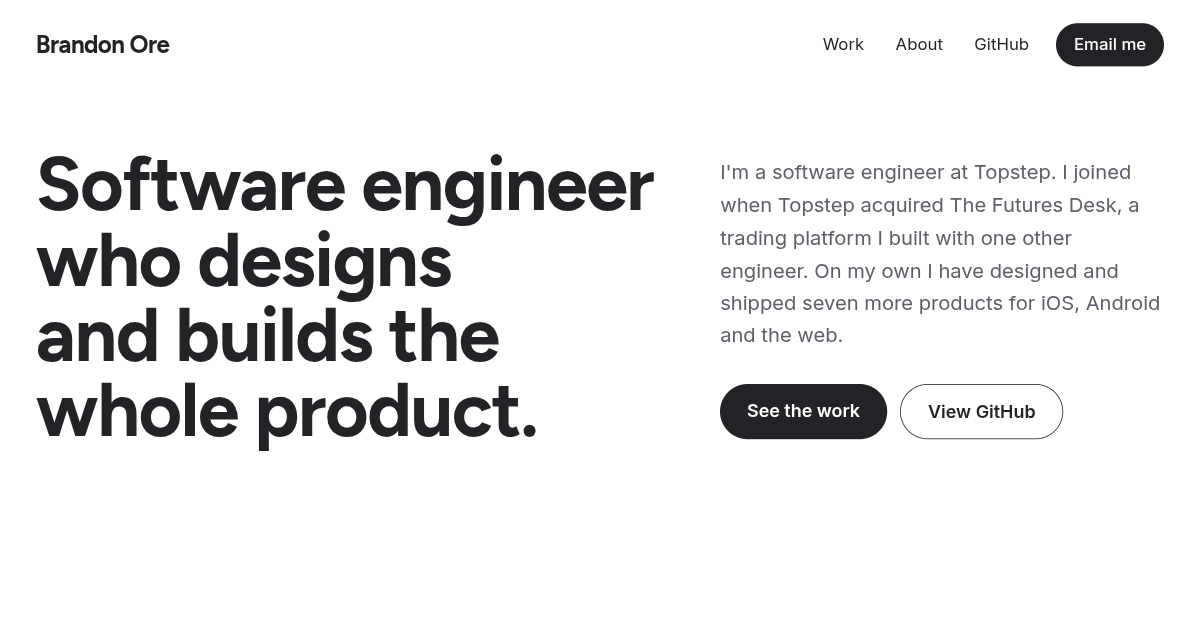
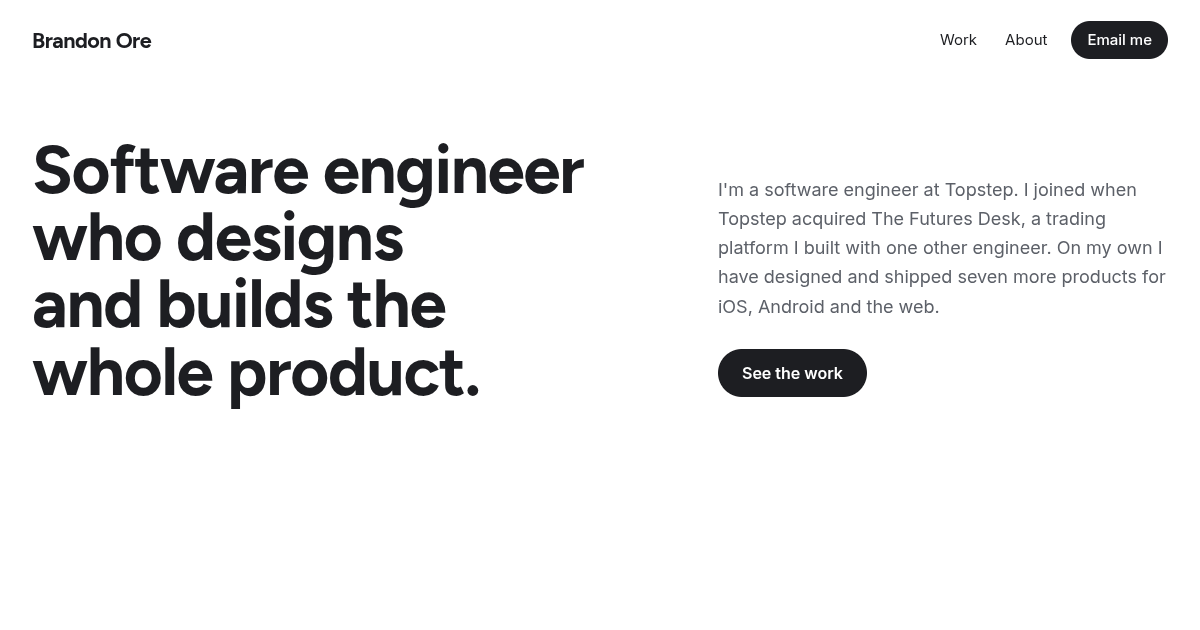
feat(site): show experience as a path and widen the page
The three jobs under the headline are now a path through time that ends at
the current role, in place of the grey table. The long panel about app
store rules is folded into four rows of the tools table and one sentence.

The products' repositories are private, so the page no longer says the code
is on GitHub; the contact band offers a walkthrough instead and GitHub stays
as a footer link. The page is 1360px wide, up from 1200px, the MySeedStory
phones sit lower, and the footer links are tall enough to tap.

diff --git a/src/components/HeroSection.vue b/src/components/HeroSection.vue
@@ -1,57 +1,79 @@
 <script setup>
-import { githubUrl } from '../links'
-
-// Newest first. This list is the résumé at a glance, so it sits right under the headline.
-const experience = [
+// Oldest first, so the row reads left to right as a path that ends at now.
+// Each year is when that stretch began. The products came well after 2019, and the note says so.
+const path = [
   {
-    when: 'Since 2026',
-    name: 'Topstep',
-    role: 'Software engineer',
-    note: 'Joined through the acquisition of The Futures Desk in April 2026.',
+    year: '2019',
+    name: 'Independent',
+    role: 'Client apps, then my own products',
+    note: 'I started with client work. My own products came later: seven so far, published under the name Pomkatsu.',
+    mark: 'products',
+    href: '#products',
   },
   {
-    when: '2024 to 2026',
+    year: '2024',
     name: 'The Futures Desk',
     role: 'Founding engineer',
     note: 'One of two engineers. Launched in November 2024 and acquired by Topstep.',
+    mark: 'logo',
+    href: '#tfd',
   },
   {
-    when: 'Since 2019',
-    name: 'Independent',
-    role: 'Client apps, then my own products',
-    note: 'Seven products of my own, published under the name Pomkatsu.',
+    year: '2026',
+    name: 'Topstep',
+    role: 'Software engineer',
+    note: 'Joined through the acquisition of The Futures Desk in April 2026. This is where I work now.',
+    now: true,
   },
+]
+
+// The seven products, in the order they appear further down
+const products = [
+  { name: 'MySeedStory', icon: '/work/myseedstory/icon.webp' },
+  { name: 'CertMatrix', icon: '/work/certmatrix/icon.png' },
+  { name: 'EasyTranslate AI', icon: '/work/easytranslate/icon.webp' },
+  { name: 'BCP Flow', icon: '/work/bcpflow/icon.svg' },
+  { name: 'BentoBook', icon: '/work/bentobook/icon.webp', padded: true },
+  { name: 'Destina', icon: '/work/destina/icon.webp' },
+  { name: 'FoodTally', icon: '/work/foodtally/icon.webp' },
 ]
 </script>
 
 <template>
-  <!-- The claim on the left, the plain account of it on the right, then the three jobs as proof -->
-  <section class="mx-auto max-w-[1200px] px-5 sm:px-8">
+  <!-- The claim on the left, the plain account of it on the right, then the three jobs as a path through time -->
+  <section class="mx-auto max-w-[1360px] px-5 sm:px-8">
     <div class="grid lg:grid-cols-12 gap-x-10 gap-y-8 items-end pt-8 sm:pt-14 pb-12 sm:pb-16">
       <h1 class="lg:col-span-7 text-balance font-brand font-bold tracking-[-0.02em] leading-[1] text-[clamp(2.25rem,5.6vw,4.6rem)]">Software engineer who designs and builds the whole product.</h1>
       <div class="lg:col-span-5 lg:pb-2">
         <p class="max-w-[33rem] text-lg leading-relaxed text-primary-light">I'm a software engineer at Topstep. I joined when Topstep acquired The Futures Desk, a trading platform I built with one other engineer. On my own I have designed and shipped seven more products for iOS, Android and the web.</p>
         <div class="mt-7 flex flex-wrap gap-3">
           <a href="#work" class="px-6 py-3 rounded-full bg-primary text-secondary font-semibold hover:bg-primary-dark">See the work</a>
-          <a :href="githubUrl" target="_blank" rel="noopener noreferrer" class="px-6 py-3 rounded-full border border-primary font-semibold hover:bg-secondary-light">View GitHub</a>
         </div>
       </div>
     </div>
 
     <h2 class="sr-only">Experience</h2>
-    <ol class="rounded-[28px] bg-secondary-light px-6 sm:px-10 lg:px-14 py-3 sm:py-5">
-      <li
-        v-for="(job, i) in experience"
-        :key="job.name"
-        class="grid md:grid-cols-[8rem_minmax(0,1fr)_minmax(0,1.35fr)] gap-x-8 gap-y-1 md:items-baseline py-6"
-        :class="i > 0 ? 'border-t border-secondary-dark' : ''"
-      >
-        <span class="text-[15px] text-primary-light">{{ job.when }}</span>
-        <span class="font-brand text-[1.7rem] sm:text-[2rem] font-bold tracking-[-0.02em] leading-none">{{ job.name }}</span>
-        <span class="mt-1 md:mt-0">
-          <span class="block font-medium">{{ job.role }}</span>
-          <span class="block text-[15px] leading-relaxed text-primary-light">{{ job.note }}</span>
-        </span>
+    <ol class="grid md:grid-cols-3 gap-y-10 pt-2">
+      <li v-for="stop in path" :key="stop.name" class="relative pt-10" :class="stop.now ? '' : 'md:pr-10'">
+        <!-- The line to the next stop. After the last one it fades out, because that one is still running. -->
+        <span class="absolute left-0 right-0 top-[7px] h-0.5" :class="stop.now ? 'bg-gradient-to-r from-secondary-dark to-transparent' : 'bg-secondary-dark'" aria-hidden="true"></span>
+        <span class="absolute left-0 top-0 w-4 h-4 rounded-full" :class="stop.now ? 'bg-live ring-4 ring-live/25' : 'bg-secondary border-[3px] border-primary'" aria-hidden="true"></span>
+
+        <component :is="stop.href ? 'a' : 'div'" :href="stop.href" class="group block">
+          <p class="font-brand text-[2.6rem] font-bold tracking-[-0.03em] leading-none">{{ stop.year }}</p>
+          <h3 class="mt-5 font-brand text-2xl font-bold tracking-tight leading-none" :class="stop.href ? 'group-hover:underline underline-offset-4 decoration-2' : ''">{{ stop.name }}</h3>
+          <p class="mt-2 font-medium leading-snug">{{ stop.role }}</p>
+          <p class="mt-1 text-[15px] leading-relaxed text-primary-light">{{ stop.note }}</p>
+          <span v-if="stop.mark === 'products'" class="mt-5 grid grid-cols-7 gap-1.5 max-w-[14.5rem]">
+            <span
+              v-for="product in products"
+              :key="product.name"
+              class="app-icon aspect-square"
+              :class="product.padded ? 'bg-secondary-light p-0.5' : ''"
+            ><img :src="product.icon" alt="" :class="product.padded ? 'object-contain' : 'object-cover'"></span>
+          </span>
+          <span v-else-if="stop.mark === 'logo'" class="mt-5 flex"><span class="app-icon w-7 h-7 bg-black p-1"><img src="/work/futures-desk/logo.webp" alt="" width="132" height="132" class="object-contain"></span></span>
+        </component>
       </li>
     </ol>
   </section>

diff --git a/src/components/AboutSection.vue b/src/components/AboutSection.vue
@@ -1,23 +1,26 @@
 <script setup>
-import UnseenWork from './UnseenWork.vue'
-
+// The tools first, then the work around a product that no screenshot shows
 const stack = [
   { area: 'Web', tools: 'React, Next.js, Vue, Astro, Tailwind' },
   { area: 'Mobile', tools: 'React Native with Expo, Flutter, Capacitor' },
   { area: 'Backend', tools: 'Node, tRPC, Fastify, Postgres, Supabase, Firebase' },
+  { area: 'Payments', tools: 'Stripe, RevenueCat, Lemon Squeezy, webhooks' },
+  { area: 'App stores', tools: 'App Store and Google Play: review, in-app purchases, privacy labels, account deletion' },
+  { area: 'Ads', tools: 'AppsFlyer attribution, Meta, Apple and Reddit ads' },
+  { area: 'Testing', tools: 'Playwright, Vitest' },
 ]
 </script>
 
 <template>
-  <section id="about" class="mx-auto max-w-[1200px] px-5 sm:px-8 pt-20 sm:pt-28 scroll-mt-6">
+  <section id="about" class="mx-auto max-w-[1360px] px-5 sm:px-8 pt-20 sm:pt-28 scroll-mt-6">
     <div class="grid lg:grid-cols-12 gap-x-12 gap-y-12">
       <div class="lg:col-span-6">
         <h2 class="font-brand text-3xl sm:text-[2.6rem] font-bold tracking-[-0.025em] leading-none">About</h2>
         <p class="mt-7 text-xl leading-relaxed">I'm Brandon Ore. I have been building production software since 2019: first for clients, then as a founding engineer at The Futures Desk, and now at Topstep.</p>
-        <p class="mt-4 leading-relaxed text-primary-light max-w-[34rem]">I design the screens and build everything behind them: the app, the API, the database and the billing. Most of my work has been solo or on a two-engineer team, so I am used to owning a feature from the first sketch to the release, and to fixing it when it breaks.</p>
+        <p class="mt-4 leading-relaxed text-primary-light max-w-[34rem]">I design the screens and build everything behind them: the app, the API, the database and the billing. Most of my work has been solo or on a two-engineer team, so I am used to owning a feature from the first sketch to the release, and to fixing it when it breaks. That includes the parts nobody sees: payments, app store review, privacy rules and tests.</p>
       </div>
       <div class="lg:col-span-5 lg:col-start-8 lg:pt-[4.4rem]">
-        <h3 class="font-brand text-xl font-semibold tracking-tight">What I build with</h3>
+        <h3 class="font-brand text-xl font-semibold tracking-tight">What I work with</h3>
         <dl class="mt-4 grid grid-cols-[5.5rem_1fr] gap-y-2.5 text-[15px] leading-snug">
           <template v-for="row in stack" :key="row.area">
             <dt class="font-medium">{{ row.area }}</dt>
@@ -26,7 +29,5 @@ const stack = [
         </dl>
       </div>
     </div>
-
-    <UnseenWork />
   </section>
 </template>

diff --git a/src/components/SiteFooter.vue b/src/components/SiteFooter.vue
@@ -5,12 +5,12 @@ const year = new Date().getFullYear()
 </script>
 
 <template>
-  <footer class="mx-auto max-w-[1200px] px-5 sm:px-8 py-12 flex flex-wrap items-center justify-between gap-x-8 gap-y-4 text-sm text-primary-light">
+  <footer class="mx-auto max-w-[1360px] px-5 sm:px-8 py-12 flex flex-wrap items-center justify-between gap-x-8 gap-y-4 text-sm text-primary-light">
     <p>© {{ year }} Brandon Ore</p>
-    <nav class="flex flex-wrap gap-x-6 gap-y-2" aria-label="Elsewhere">
-      <a :href="githubUrl" target="_blank" rel="noopener noreferrer" class="hover:text-primary hover:underline underline-offset-4">GitHub</a>
-      <a :href="emailUrl" class="hover:text-primary hover:underline underline-offset-4">Email</a>
-      <a href="https://pomkatsu.com" target="_blank" rel="noopener noreferrer" class="hover:text-primary hover:underline underline-offset-4">Pomkatsu</a>
+    <nav class="flex flex-wrap gap-x-6 -my-2" aria-label="Elsewhere">
+      <a :href="githubUrl" target="_blank" rel="noopener noreferrer" class="py-2 hover:text-primary hover:underline underline-offset-4">GitHub</a>
+      <a :href="emailUrl" class="py-2 hover:text-primary hover:underline underline-offset-4">Email</a>
+      <a href="https://pomkatsu.com" target="_blank" rel="noopener noreferrer" class="py-2 hover:text-primary hover:underline underline-offset-4">Pomkatsu</a>
     </nav>
   </footer>
 </template>

diff --git a/src/components/ContactBand.vue b/src/components/ContactBand.vue
@@ -1,17 +1,16 @@
 <script setup>
-import { githubUrl, emailUrl } from '../links'
+import { emailUrl } from '../links'
 </script>
 
 <template>
-  <section class="mx-auto max-w-[1200px] px-5 sm:px-8 pt-20 sm:pt-28">
+  <section class="mx-auto max-w-[1360px] px-5 sm:px-8 pt-20 sm:pt-28">
     <div class="rounded-[28px] bg-primary text-secondary px-6 sm:px-10 lg:px-14 py-12 lg:py-16 grid lg:grid-cols-12 gap-8 items-end">
       <div class="lg:col-span-8">
         <h2 class="text-balance font-brand text-4xl sm:text-[3.4rem] font-bold tracking-[-0.03em] leading-[1.02]">Get in touch</h2>
-        <p class="mt-5 max-w-[32rem] text-lg leading-relaxed text-secondary/70">Email is the fastest way to reach me. My code is on GitHub.</p>
+        <p class="mt-5 max-w-[34rem] text-lg leading-relaxed text-secondary/70">Email is the fastest way to reach me. The code for these products is private, and I can walk through any of it on a call.</p>
       </div>
       <div class="lg:col-span-4 flex flex-wrap lg:justify-end gap-3">
         <a :href="emailUrl" class="px-6 py-3 rounded-full bg-secondary text-primary-dark font-semibold hover:bg-secondary-dark">Email me</a>
-        <a :href="githubUrl" target="_blank" rel="noopener noreferrer" class="px-6 py-3 rounded-full border border-secondary/40 font-semibold hover:bg-secondary/10">View GitHub</a>
       </div>
     </div>
   </section>

diff --git a/src/components/MySeedStoryRoom.vue b/src/components/MySeedStoryRoom.vue
@@ -53,9 +53,9 @@ onUnmounted(() => {
           <a href="https://myseedstory.co" target="_blank" rel="noopener noreferrer" class="px-4 py-2 rounded-full border border-myseedstory-forest/40 hover:bg-myseedstory-forest/5">myseedstory.co</a>
         </div>
       </div>
-      <div class="relative z-10 lg:col-span-6 flex justify-center lg:justify-end items-end lg:items-start gap-4 overflow-hidden lg:overflow-visible lg:-mt-44 lg:pb-14" aria-hidden="true">
+      <div class="relative z-10 lg:col-span-6 flex justify-center lg:justify-end items-end lg:items-start gap-4 overflow-hidden lg:overflow-visible lg:-mt-24 lg:pb-14" aria-hidden="true">
         <div class="phone w-[190px] sm:w-[240px] lg:w-[196px] xl:w-[240px] -mb-12 lg:mb-0"><img src="/work/myseedstory/seeds.webp" alt="" width="720" height="1558" loading="lazy" decoding="async"></div>
-        <div class="phone w-[190px] sm:w-[240px] lg:w-[196px] xl:w-[240px] mt-14 -mb-28 lg:mb-0"><img src="/work/myseedstory/calendar.webp" alt="" width="720" height="1558" loading="lazy" decoding="async"></div>
+        <div class="phone w-[190px] sm:w-[240px] lg:w-[196px] xl:w-[240px] mt-14 lg:mt-20 -mb-28 lg:mb-0"><img src="/work/myseedstory/calendar.webp" alt="" width="720" height="1558" loading="lazy" decoding="async"></div>
       </div>
     </div>
   </article>

diff --git a/src/App.vue b/src/App.vue
@@ -21,13 +21,13 @@ import SiteFooter from './components/SiteFooter.vue'
     <HeroSection />
 
     <!-- The product built with a team -->
-    <section id="work" class="mx-auto max-w-[1200px] px-5 sm:px-8 pt-14 sm:pt-20 scroll-mt-6">
+    <section id="work" class="mx-auto max-w-[1360px] px-5 sm:px-8 pt-14 sm:pt-20 scroll-mt-6">
       <h2 class="mb-8 font-brand text-3xl sm:text-[2.6rem] font-bold tracking-[-0.025em] leading-none">Built with a team</h2>
       <FuturesDeskRoom />
     </section>
 
     <!-- My own products: each one is a room in its own colours, deepest codebase first after MySeedStory -->
-    <section id="products" class="mx-auto max-w-[1200px] px-5 sm:px-8 pt-20 sm:pt-28 scroll-mt-6">
+    <section id="products" class="mx-auto max-w-[1360px] px-5 sm:px-8 pt-20 sm:pt-28 scroll-mt-6">
       <div class="mb-8 grid lg:grid-cols-12 gap-x-10 gap-y-4 items-end">
         <h2 class="lg:col-span-6 font-brand text-3xl sm:text-[2.6rem] font-bold tracking-[-0.025em] leading-none">Built on my own</h2>
         <p class="lg:col-span-6 max-w-[34rem] leading-relaxed text-primary-light">I designed, built and released each of these myself. They are published under my own label, Pomkatsu.</p>

diff --git a/src/components/SiteHeader.vue b/src/components/SiteHeader.vue
@@ -1,15 +1,14 @@
 <script setup>
-import { githubUrl, emailUrl } from '../links'
+import { emailUrl } from '../links'
 </script>
 
 <template>
-  <header class="mx-auto max-w-[1200px] px-5 sm:px-8">
+  <header class="mx-auto max-w-[1360px] px-5 sm:px-8">
     <nav class="flex items-center justify-between h-20" aria-label="Main">
       <a href="#top" class="font-brand text-[1.35rem] font-bold tracking-tight">Brandon Ore</a>
       <div class="flex items-center gap-1 text-[15px]">
         <a href="#work" class="hidden sm:block px-3 py-2 rounded-full hover:bg-secondary-light">Work</a>
         <a href="#about" class="hidden sm:block px-3 py-2 rounded-full hover:bg-secondary-light">About</a>
-        <a :href="githubUrl" target="_blank" rel="noopener noreferrer" class="hidden min-[420px]:block px-3 py-2 rounded-full hover:bg-secondary-light">GitHub</a>
         <a :href="emailUrl" class="ml-2 px-4 py-2 rounded-full bg-primary text-secondary font-medium whitespace-nowrap hover:bg-primary-dark">Email me</a>
       </div>
     </nav>
